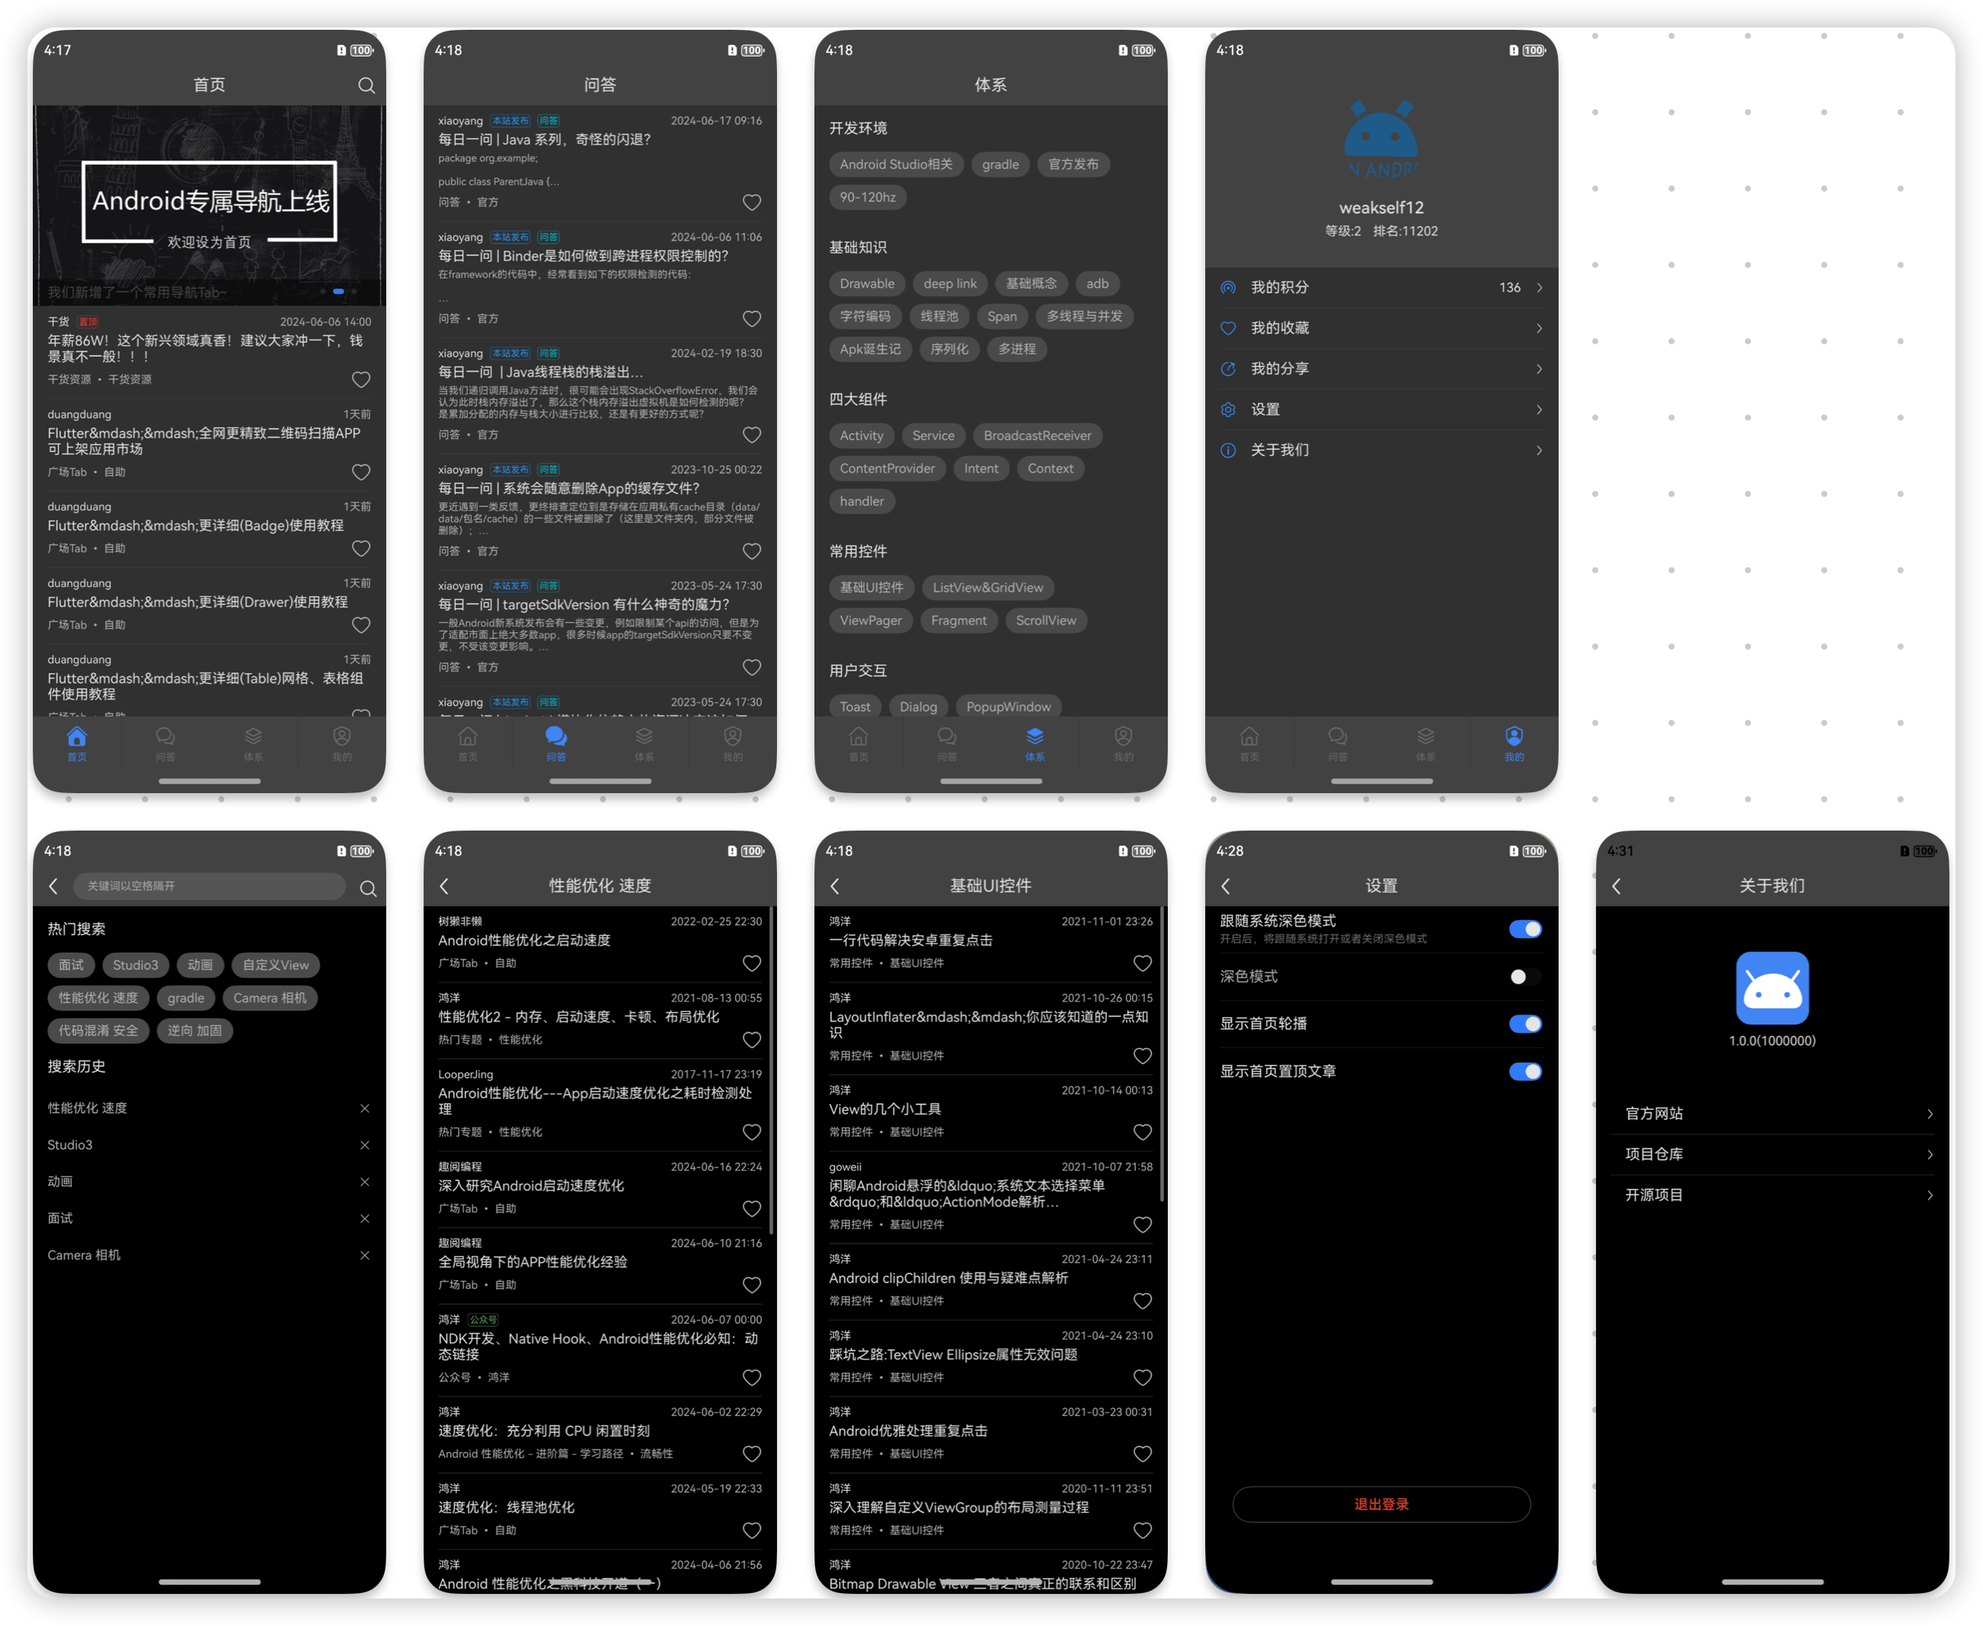
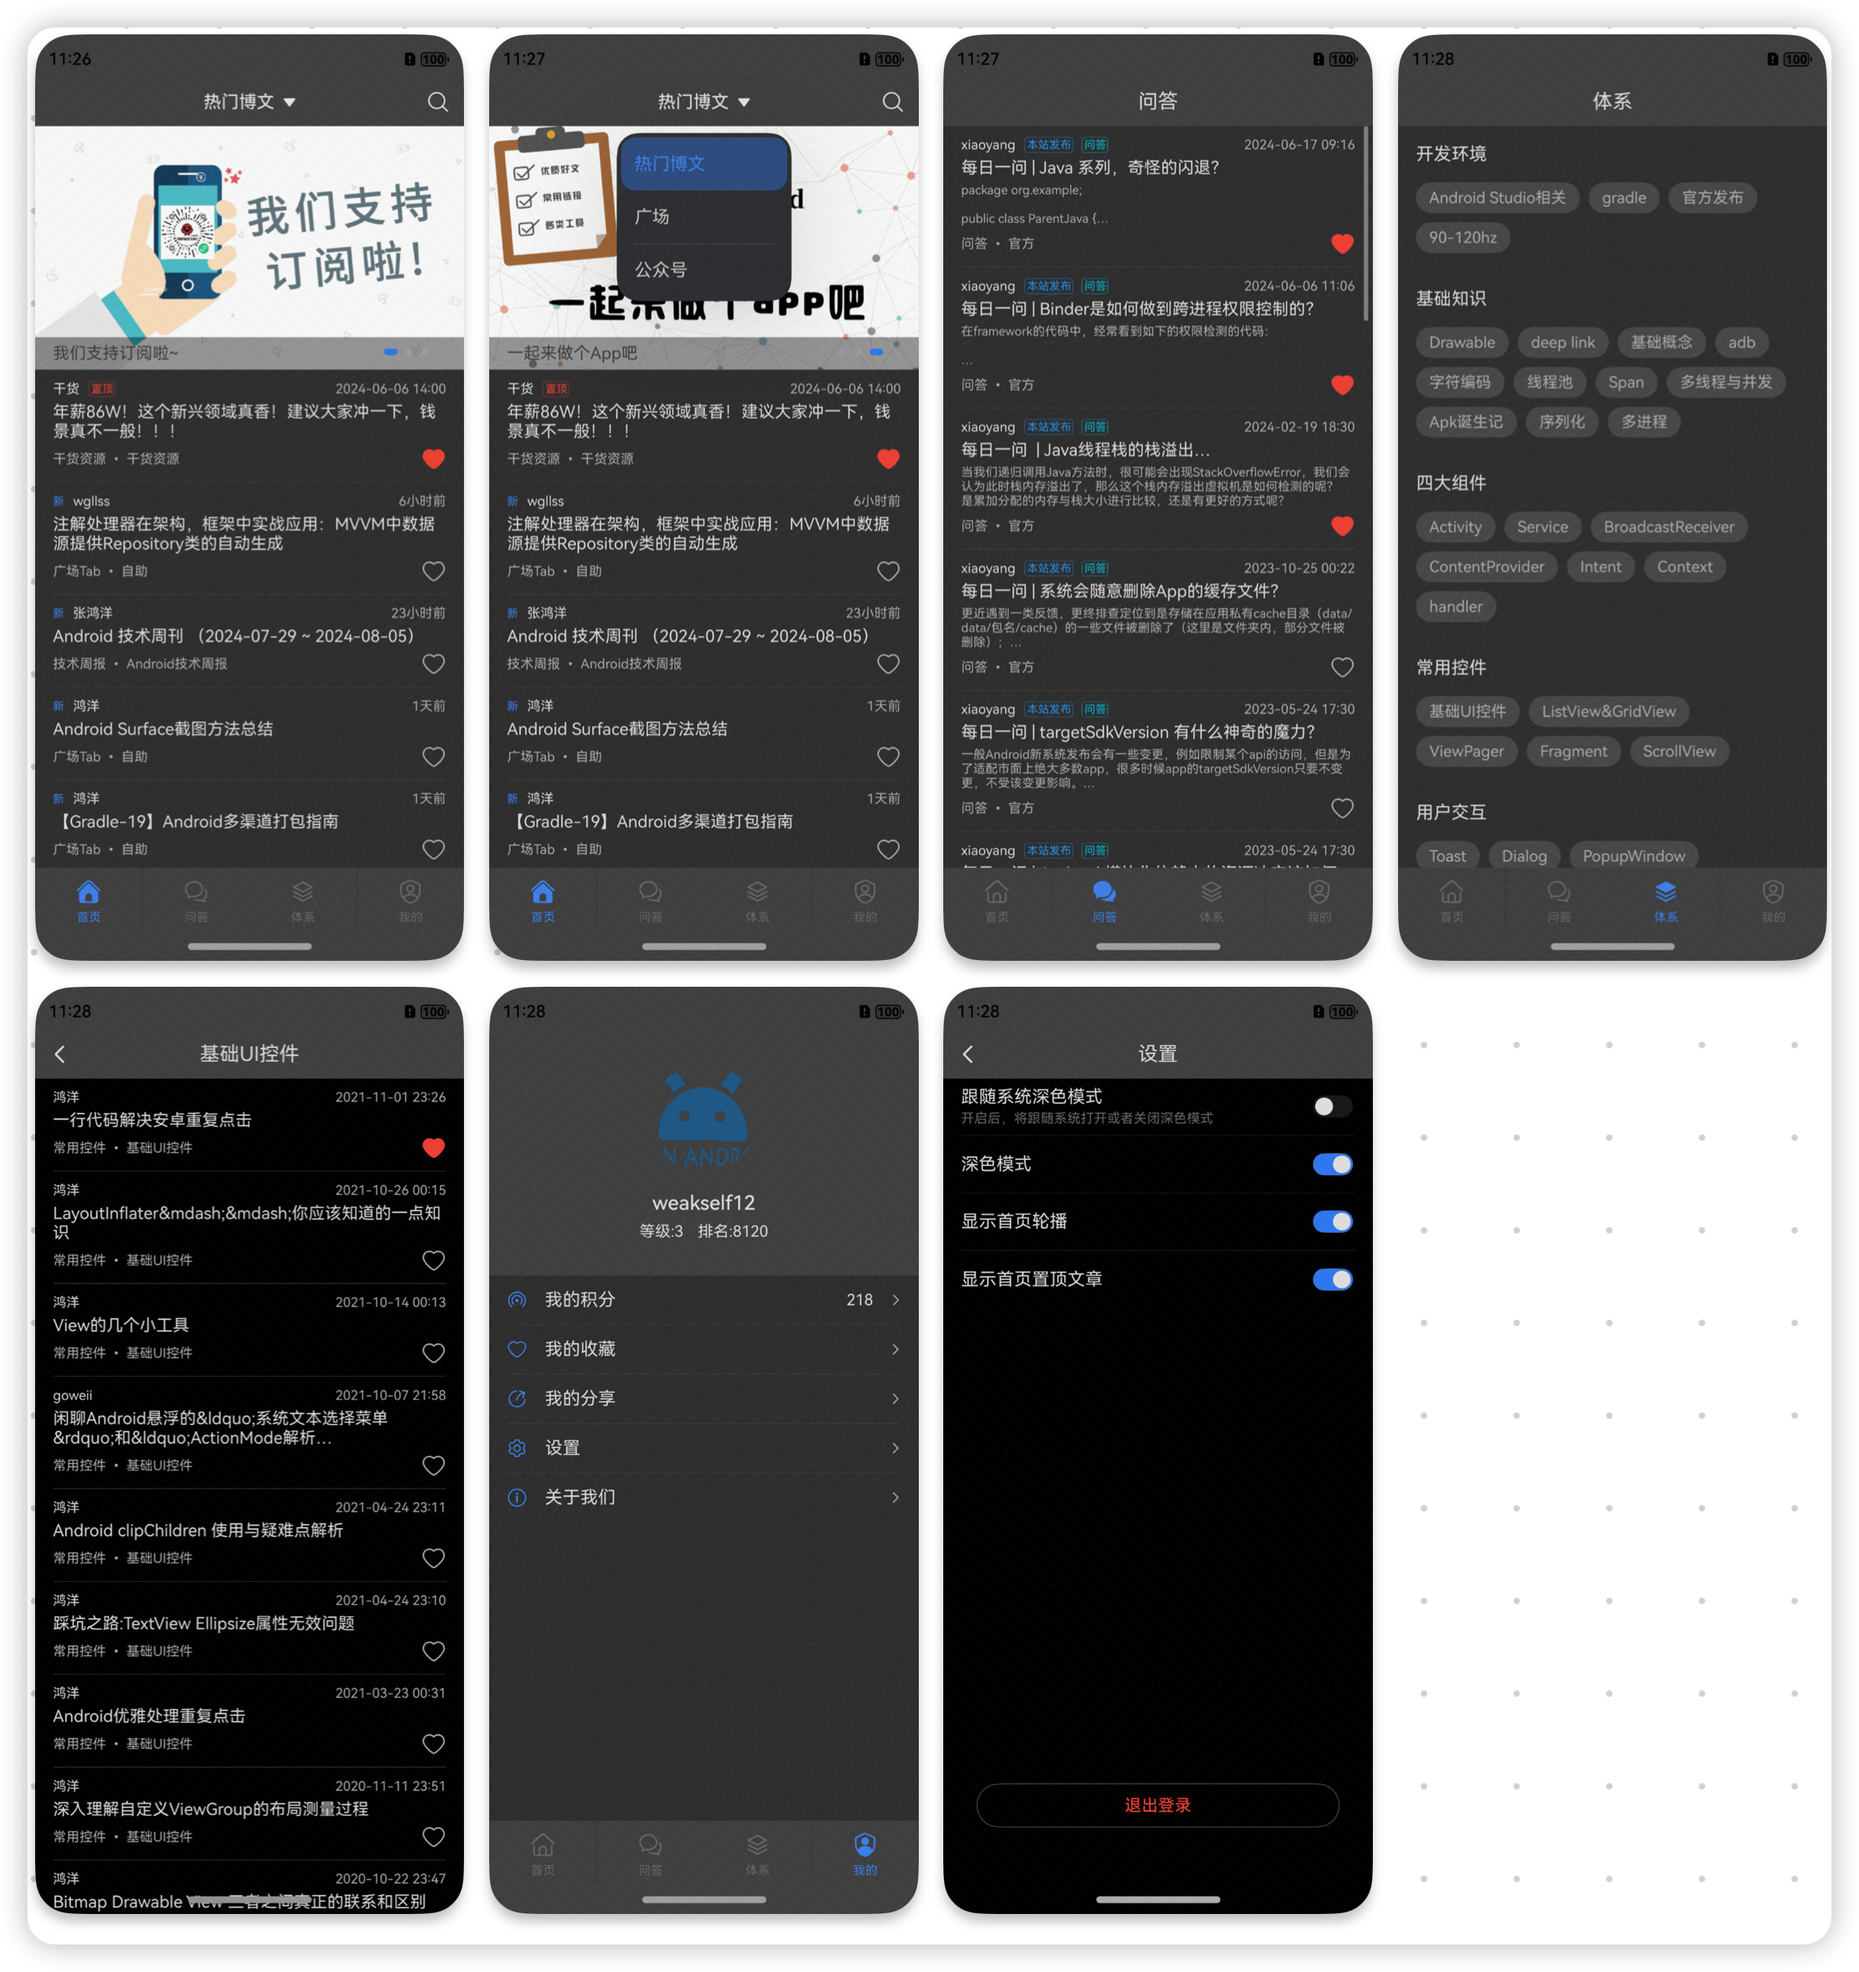
更新 README

diff --git a/README.md b/README.md
@@ -10,16 +10,17 @@
 
 ## 截图
 
-![浅色模式](./Art/art_light.png)
-![深色模式](./Art/art_dark.png)
+![浅色模式](./Art/art_light_0.png)
+
+![浅色模式](./Art/art_light_1.png)![深色模式](./Art/art_dark.png)
 
 ## 功能迭代
 
 ### 首页
 
-* [ ] 增加广场入口
+* [x] 增加广场入口
 
-* [ ] 增加公众号入口
+* [x] 增加公众号入口
 
 ### 个人中心
 
